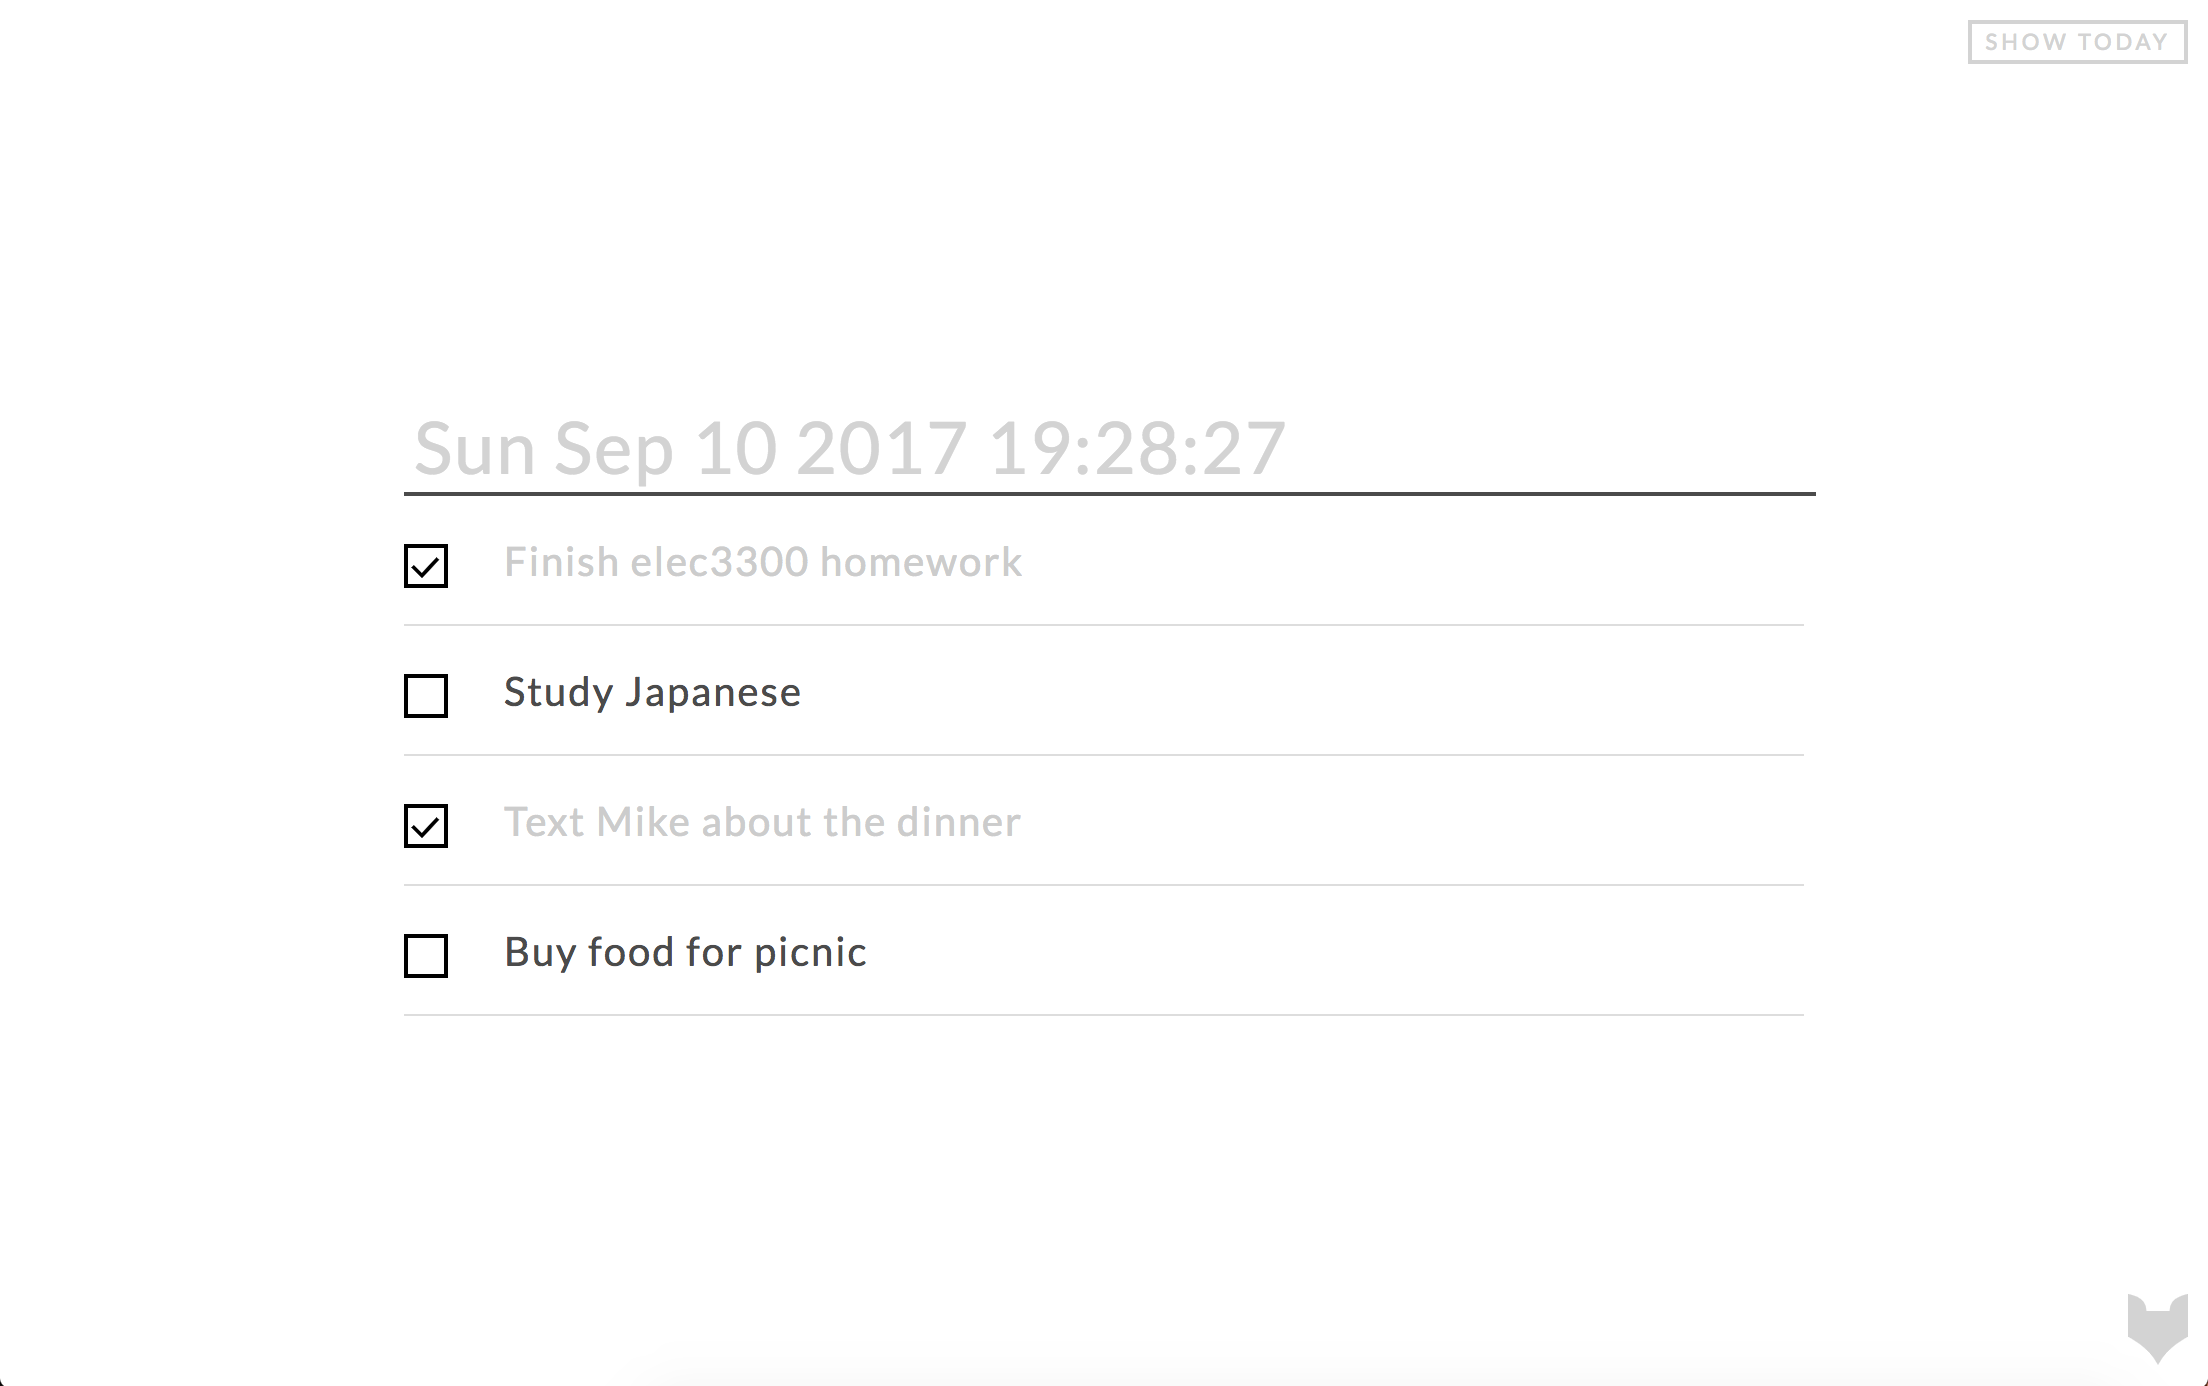
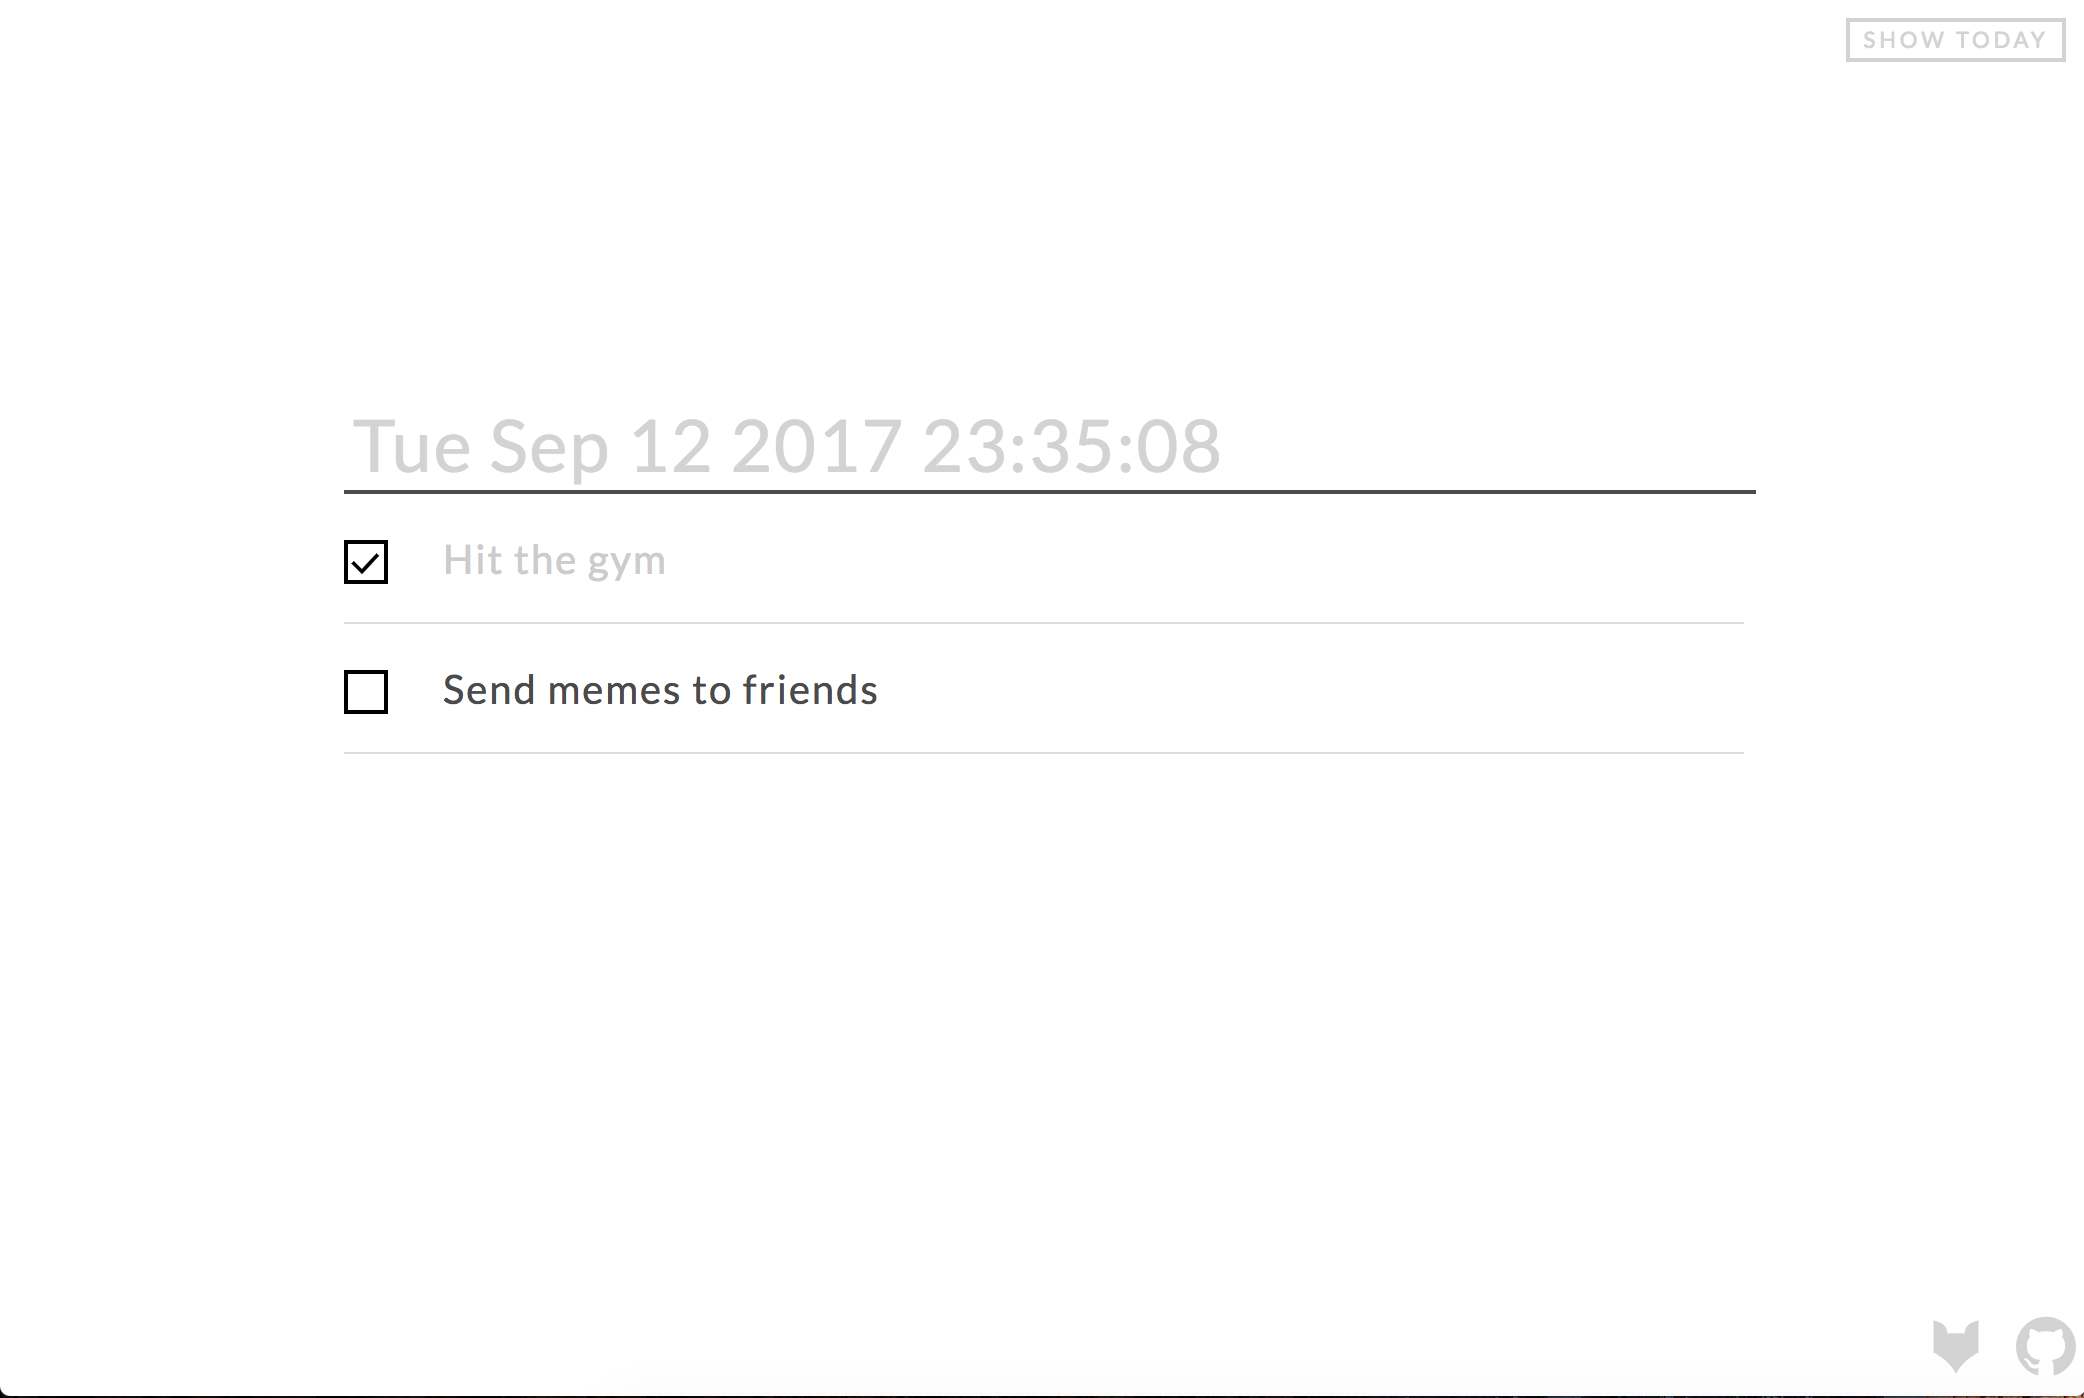
fixed minor bug

diff --git a/src/components/TodoList.js b/src/components/TodoList.js
@@ -68,20 +68,24 @@ export default class TodoList extends React.Component{
 
         { this.props.editing ?
 
-            this.props.todos.map((item)=>(
-              <TodoItem
-                key={item.id}
-                name={item.name}
-                daysOfWeek={item.daysOfWeek}
-                completed={item.completed}
-                toggleTaskCompletion={()=>{this.props.toggleTaskCompletion(item.id)}}
-                toggleDayOfWeek={(dayOfWeek)=>{this.props.toggleDayOfWeek(item.id, dayOfWeek)}}
-                deleteTask={()=>{this.props.deleteTask(item.id)}}
-                editing={item.editing}
-                startEditMode={()=>{this.props.startEditMode(item.id)}}
-                endEditMode={(newName)=>{this.props.endEditMode(item.id, newName)}}
-              />
-            ))
+            this.props.todos.map((item)=>{
+              if(item.render){
+                return(<TodoItem
+                  key={item.id}
+                  name={item.name}
+                  daysOfWeek={item.daysOfWeek}
+                  completed={item.completed}
+                  toggleTaskCompletion={()=>{this.props.toggleTaskCompletion(item.id)}}
+                  toggleDayOfWeek={(dayOfWeek)=>{this.props.toggleDayOfWeek(item.id, dayOfWeek)}}
+                  deleteTask={()=>{this.props.deleteTask(item.id)}}
+                  editing={item.editing}
+                  startEditMode={()=>{this.props.startEditMode(item.id)}}
+                  endEditMode={(newName)=>{this.props.endEditMode(item.id, newName)}}
+                />)
+              } else {
+                return null;
+              }
+            })
           :
           (<DragDropContext onDragEnd={this.onDragEnd.bind(this)}>
           <Droppable droppableId="droppable">
